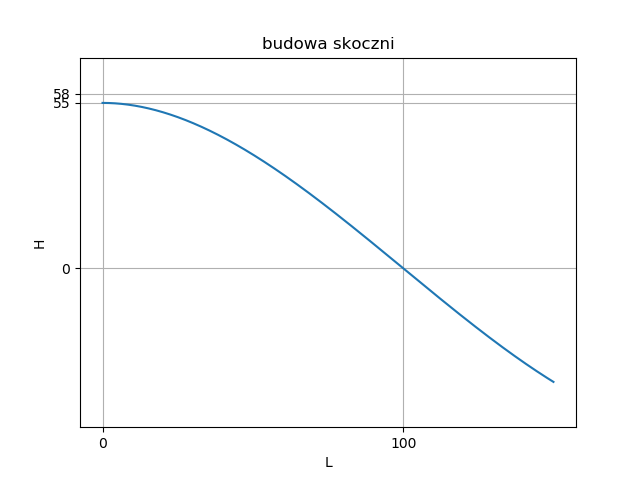
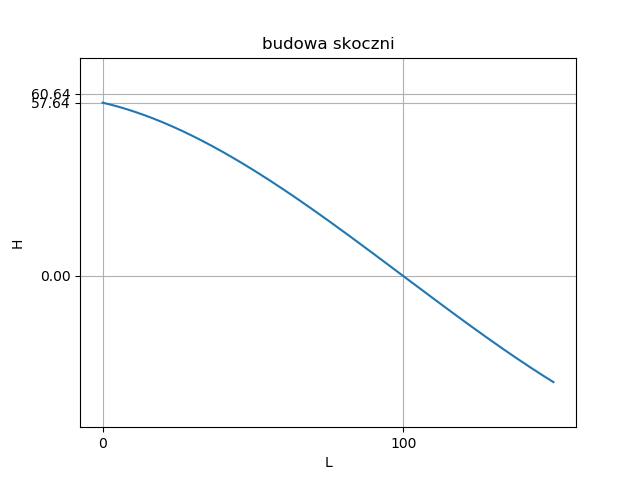
Budowa skoczni początek objaśnienia

diff --git a/equation.py b/equation.py
@@ -5,32 +5,35 @@ from jumper import Jumper
 from hill import Hill
 
 malysz = Jumper(55)
-wisla = Hill(100, 27)
+wisla = Hill(100, 25)
 
 def simulate_jump(hill, *jumpers):
 
-    hill_length = np.linspace(0, 2 * hill.length, 1000)
+    hill_length = np.linspace(0, 1.5 * hill.length, 1000)
     hill_curve = [hill.curve(x) for x in hill_length]
 
-    vy0 = 0
+    vy0 = -0.5
     vx0 = hill.velocity
-
-    time = np.linspace(0,10, 10000)
-    delta_time = 10/10000
+    delta_time = 1 / 1000
+    time = np.arange(0,10, delta_time)
 
     jumps = []
 
     for jumper in jumpers:
-        def square_model(v, t):
-            cd = 0.002 / jumper.mass
+        def linear_model(v):
+            cd = 0.1 / jumper.mass
+            return -cd*v[0]*delta_time, (-cd * v[1] - 9.81)*delta_time
+        def square_model(v):
+            cd = 0.02 / jumper.mass
             l = (v[0] ** 2 + v[1] ** 2) ** (1 / 2)
-            return -cd * v[0] * l, cd * v[1] * l - 9.81
+            return -cd * v[0] * l*delta_time, (-cd * v[1] * l - 9.81)*delta_time
 
-        velocity = odeint(square_model, [vx0,vy0],time)
-        VX, VY = [], []
-        for single in velocity:
-            VX.append(single[0])
-            VY.append(single[1])
+        VX, VY = [vx0], [vy0]
+        for t in time:
+            x, y = square_model([VX[-1], VY[-1]])
+            print(x,y)
+            VX.append(VX[-1] + x)
+            VY.append(VY[-1] + y)
         jumper.move(0,hill.height + 3)
         X,Y = [jumper.position[0]], [jumper.position[1]]
 
@@ -60,5 +63,5 @@ for jump in jumps:
 plt.legend(["ląd","40kg","55kg","70kg"])
 plt.axis('equal')
 plt.gca().set_aspect('equal', adjustable='box')
-# plt.title("Gx : Gy = 1:1")
+plt.title("Gx : Gy = 1:1")
 plt.show()

diff --git a/hill.py b/hill.py
@@ -1,12 +1,14 @@
 class Hill:
 
-    def __init__(self, lenght, velocity):
+    def __init__(self, length, velocity):
         self.velocity = velocity
-        self.length = lenght
-        self.height = self.length*0.55
-        self.modifier = -((1/(3*self.length))*((self.length)**3) - ((self.length)**2))/self.height
+        self.length = length
+        self.height = self.length*(0.6)
+        self.draw_length = self.length*1.2
+        self.modifier = -((1/(3*self.draw_length))*((self.draw_length)**3) - ((self.draw_length)**2))/self.height
 
     def curve(self, x):
-        return ((1/(3*(self.length)))*(x**3) - (x**2))/self.modifier + self.height
+        x= x + self.length*0.2
+        return ((1/(3*(self.draw_length)))*(x**3) - (x**2))/self.modifier + self.height
 
 

diff --git a/flight.py b/flight.py
@@ -1,0 +1,3 @@
+class Flight:
+
+    def __init__(self, mass, ):
